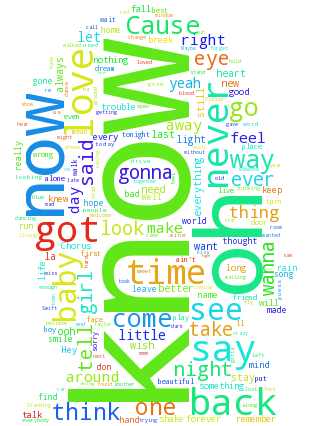
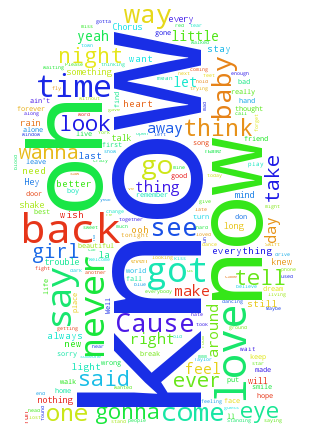
Minor edits to wordcloud with mask

diff --git a/MiniProject1 - Exploratory Data Science/shapedTSWordcloud.py b/MiniProject1 - Exploratory Data Science/shapedTSWordcloud.py
@@ -8,7 +8,7 @@ d = path.dirname(__file__)
 # Read the whole text.
 text = open(path.join(d, 'alllyrics.txt')).read()
 
-ts_mask = np.array(Image.open(path.join(d, "ts_mask.png")))
+ts_mask = np.array(Image.open(path.join(d, "ts_mask.2png")))
 image_colors = ImageColorGenerator(ts_mask)
 
 # Generate a word cloud image
@@ -22,7 +22,6 @@ wordcloud.to_file(path.join(d, "wordcloud_masksrccolors.png"))
 # Display the generated image:
 # the matplotlib way:
 import matplotlib.pyplot as plt
-plt.figure()
 plt.imshow(wordcloud)
 plt.axis("off")
-plt.figure()
+plt.show()
